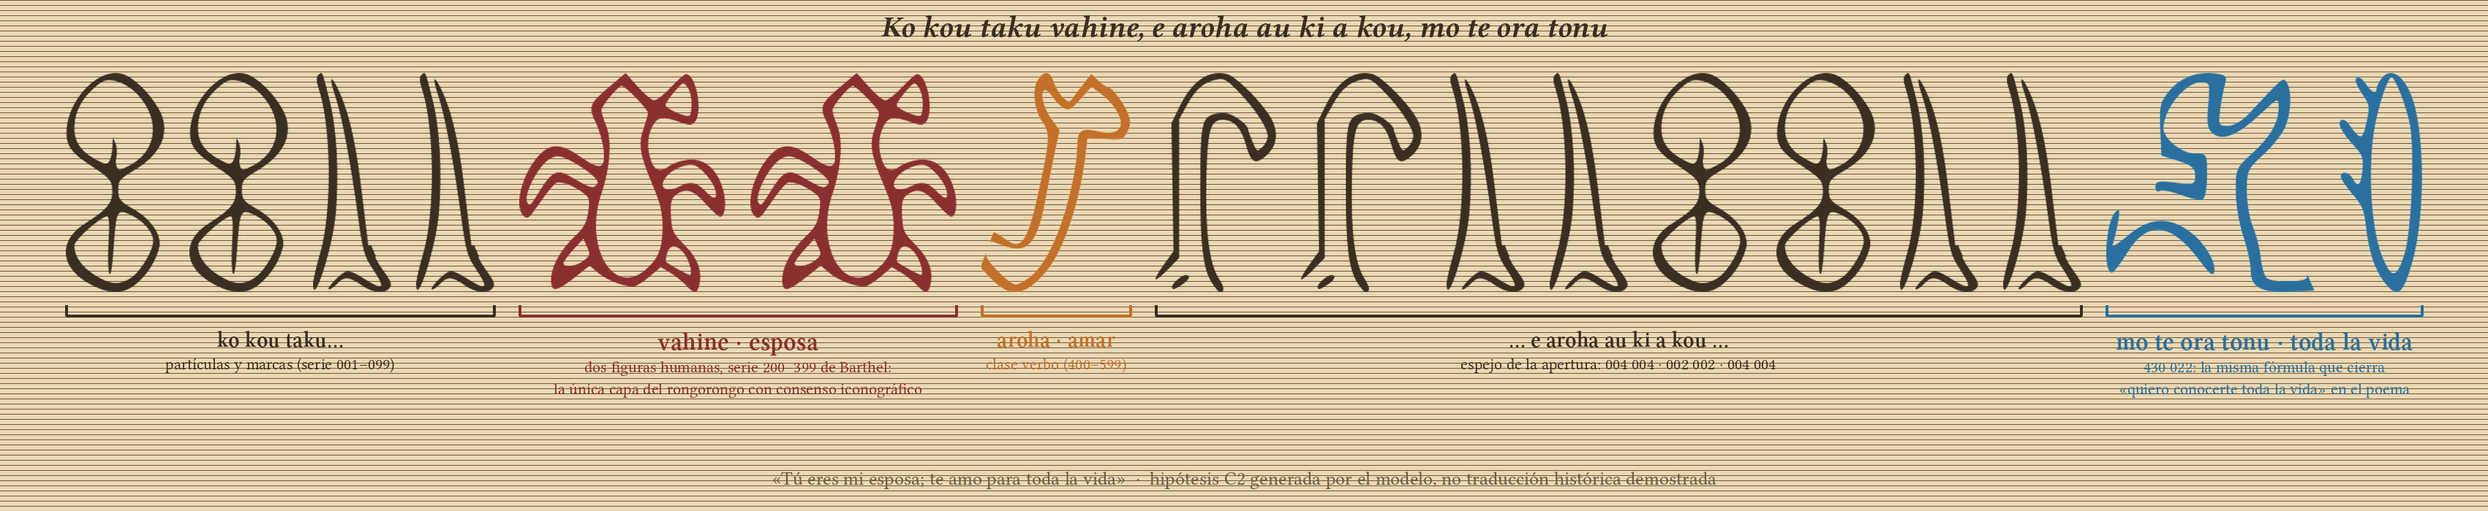
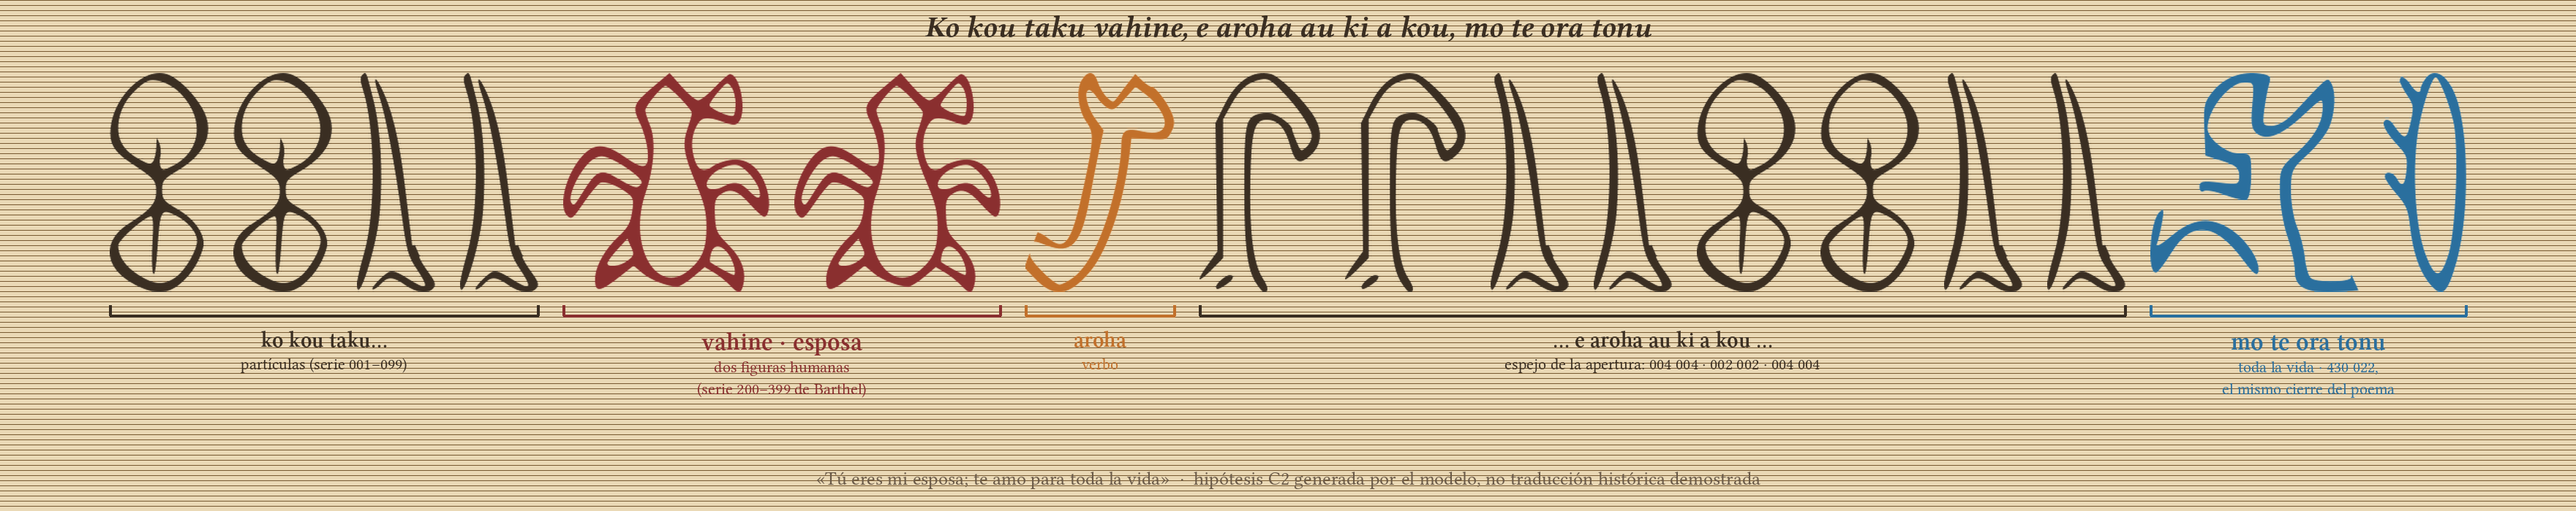
Add single-image LinkedIn post composition (proposal tablet, reading key, two tablets)

diff --git a/infografia/post_linkedin.html b/infografia/post_linkedin.html
@@ -1,0 +1,46 @@
+<!doctype html><html lang="es"><head><meta charset="utf-8"><style>
+:root{--ivory:#f6efe2;--ink:#2b2118;--ink2:#5a4a3a;--muted:#8c7b68;--burdeos:#8a2f2f;--line:#cdbfa6;--wood:#2a1b12;--wood2:#3a281b}
+*{box-sizing:border-box;margin:0;padding:0}
+html,body{width:1350px;background:var(--ivory);color:var(--ink);font-family:"Adwaita Sans","Montserrat",sans-serif}
+body{background:radial-gradient(900px 400px at 50% -60px, rgba(194,112,42,.13), transparent 70%),repeating-linear-gradient(180deg, rgba(120,90,50,.028) 0 2px, transparent 2px 9px),var(--ivory)}
+.page{padding:54px 64px 44px}
+.serif{font-family:"Libertinus Serif Display","Libertinus Serif",serif}
+h1{font-family:"Libertinus Serif Display",serif;font-size:86px;font-weight:600;text-align:center;line-height:1;letter-spacing:.01em}
+.sub{text-align:center;font-size:15px;letter-spacing:.28em;text-transform:uppercase;color:var(--muted);margin-top:14px}
+.hero{margin-top:30px;border-radius:18px;padding:34px 40px 28px;color:#f3e6cc;position:relative;
+  background:repeating-linear-gradient(94deg, rgba(255,255,255,.035) 0 3px, transparent 3px 11px),repeating-linear-gradient(88deg, rgba(0,0,0,.18) 0 1px, transparent 1px 23px),linear-gradient(180deg,var(--wood2),var(--wood) 55%,#1f140d);
+  box-shadow:0 24px 50px rgba(43,33,24,.28), inset 0 0 0 1px rgba(243,230,204,.18), inset 0 0 100px rgba(0,0,0,.35)}
+.hero .k{font-size:12.5px;letter-spacing:.3em;text-transform:uppercase;color:#d9c59a;text-align:center}
+.hero img{width:1222px;display:block;margin:18px auto 14px;filter:drop-shadow(0 2px 0 rgba(0,0,0,.5)) drop-shadow(0 0 16px rgba(217,197,154,.18))}
+.hero .rap{font-family:"Libertinus Serif Display",serif;font-style:italic;font-size:38px;text-align:center;color:#f7ecd6}
+.hero .es{font-family:"Libertinus Serif Display",serif;font-size:27px;text-align:center;color:#e6d5b5;margin-top:6px}
+.key{margin-top:30px;text-align:center}
+.key img{width:1240px;display:block;margin:0 auto}
+.key .t{font-size:13px;letter-spacing:.26em;text-transform:uppercase;color:var(--burdeos);font-weight:600;margin-bottom:10px}
+.two{display:grid;grid-template-columns:1fr 1fr;gap:34px;margin-top:30px}
+.card{border:1.5px solid var(--line);border-radius:14px;padding:16px 18px 14px;background:rgba(255,255,255,.42);text-align:center}
+.card img{width:100%;height:auto;display:block;margin:0 auto}
+.card .rap{font-family:"Libertinus Serif Display",serif;font-style:italic;font-size:24px;margin-top:10px}
+.card .es{font-size:16px;color:var(--ink2);margin-top:2px}
+.card .n{font-size:12.5px;color:var(--muted);margin-top:8px}
+.foot{margin-top:34px;display:flex;justify-content:space-between;align-items:flex-end;border-top:1px solid var(--line);padding-top:14px;font-size:12px;color:var(--muted);letter-spacing:.04em}
+.foot .sig{font-family:"Libertinus Serif Display",serif;font-style:italic;font-size:24px;color:var(--ink);white-space:nowrap;margin-left:30px}
+</style></head><body><div class="page">
+<h1>Dijo que sí.</h1>
+<div class="sub">Rapa Nui · una pregunta en 17 glifos</div>
+<div class="hero">
+ <div class="k">La tablilla de la petición</div>
+ <img src="hero_glyphs.png">
+ <div class="rap">Ko kou taku vahine, e aroha au ki a kou, mo te ora tonu</div>
+ <div class="es">«Tú eres mi esposa; te amo para toda la vida.»</div>
+</div>
+<div class="key"><div class="t">Clave de lectura</div><img src="clave_bare.png"></div>
+<div class="two">
+ <div class="card"><img src="../reports/figures/tablilla_motu_moana.png"><div class="rap">I te motu, i mua o te moana</div><div class="es">«En la isla, frente al mar»</div><div class="n">el mar cayó en la serie de los peces (700)</div></div>
+ <div class="card"><img src="../reports/figures/tablilla_mo_te_ora_tonu.png"><div class="rap">Mo te ora tonu</div><div class="es">«Para toda la vida»</div><div class="n">la única frase en la que los dos modelos coincidieron glifo por glifo</div></div>
+</div>
+<div class="foot">
+ <div>Glifos: trazados reales del corpus rongorongo (tablillas A–F, transcripción Barthel) · Secuencias: hipótesis C2 generadas por el modelo, no traducción histórica demostrada · github.com/satisfymath/spectral-submersion</div>
+ <div class="sig">María Ignacia: mo te ora tonu ❤</div>
+</div>
+</div></body></html>

diff --git a/infografia/build_key.py b/infografia/build_key.py
@@ -1,4 +1,5 @@
 """Reading key for the proposal line: glyphs coloured by what we can honestly say."""
+import os
 import sys
 sys.path.insert(0, "scripts")
 from render_tablet import load_glyph
@@ -10,19 +11,21 @@ color = {i: INK for i in range(len(SEQ))}
 for i in (4, 5): color[i] = BURDEOS      # 280 280 vahine
 color[6] = COBRE                          # 450 verb class
 for i in (15, 16): color[i] = AZUL        # 430 022 ora tonu formula
-H, GAP, M = 300, 34, 90
+H, GAP, M = 300, 34, 150
+SC = float(os.environ.get("KEY_SCALE", "1"))
 gl = [load_glyph(t, H, color[i]) for i, t in enumerate(SEQ)]
 W = sum(g.width for g in gl) + GAP * (len(gl) - 1) + 2 * M
-canvas = Image.new("RGBA", (W, H + 400), PARCH)
+canvas = Image.new("RGBA", (W, H + int(400 * SC)), (0, 0, 0, 0) if os.environ.get("KEY_BARE") == "1" else PARCH)
 # subtle grain
 d = ImageDraw.Draw(canvas)
-for y in range(0, canvas.height, 7):
+for y in (range(0, canvas.height, 7) if os.environ.get("KEY_BARE") != "1" else []):
     d.line([(0, y), (W, y)], fill=(120, 90, 50, 6))
 x, y0 = M, 100
 xs = []
 for g in gl:
     canvas.alpha_composite(g, (x, y0)); xs.append((x, x + g.width)); x += g.width + GAP
 def font(sz, bold=False, italic=False):
+    sz = int(sz * SC)
     cands = ["/usr/share/fonts/libertinus/LibertinusSerifDisplay-Regular.otf",
              "/usr/share/fonts/libertinus/LibertinusSerif-Regular.otf"]
     import glob
@@ -37,16 +40,24 @@ def bracket(i0, i1, col, lines, yb):
     yy = yb + 30
     for j, (txt, sz, it) in enumerate(lines):
         f = font(sz, italic=it, bold=(j == 0))
-        w = d.textlength(txt, font=f); d.text((cx - w / 2, yy), txt, fill=col, font=f); yy += sz + 8
+        w = d.textlength(txt, font=f); d.text((cx - w / 2, yy), txt, fill=col, font=f); yy += int(sz * SC) + 8
 yb = y0 + H + 18
-bracket(0, 3, INK, [("ko kou taku…", 30, True), ("partículas y marcas (serie 001–099)", 22, False)], yb)
-bracket(4, 5, BURDEOS, [("vahine · esposa", 34, True), ("dos figuras humanas, serie 200–399 de Barthel:", 22, False), ("la única capa del rongorongo con consenso iconográfico", 22, False)], yb)
-bracket(6, 6, COBRE, [("aroha · amar", 30, True), ("clase verbo (400–599)", 22, False)], yb)
+bracket(0, 3, INK, [("ko kou taku…", 30, True), ("partículas (serie 001–099)", 22, False)], yb)
+bracket(4, 5, BURDEOS, [("vahine · esposa", 34, True), ("dos figuras humanas", 22, False), ("(serie 200–399 de Barthel)", 22, False)], yb)
+bracket(6, 6, COBRE, [("aroha", 30, True), ("verbo", 22, False)], yb)
 bracket(7, 14, INK, [("… e aroha au ki a kou …", 30, True), ("espejo de la apertura: 004 004 · 002 002 · 004 004", 22, False)], yb)
-bracket(15, 16, AZUL, [("mo te ora tonu · toda la vida", 34, True), ("430 022: la misma fórmula que cierra", 22, False), ("«quiero conocerte toda la vida» en el poema", 22, False)], yb)
-ft = font(40, italic=True); t = "Ko kou taku vahine, e aroha au ki a kou, mo te ora tonu"
-d.text(((W - d.textlength(t, font=ft)) / 2, 14), t, fill=INK, font=ft)
-f2 = font(26); t2 = "«Tú eres mi esposa; te amo para toda la vida»  ·  hipótesis C2 generada por el modelo, no traducción histórica demostrada"
-d.text(((W - d.textlength(t2, font=f2)) / 2, canvas.height - 60), t2, fill="#6a5a48", font=f2)
-canvas.convert("RGB").save("reports/figures/clave_lectura_peticion.png", quality=95)
+bracket(15, 16, AZUL, [("mo te ora tonu", 34, True), ("toda la vida · 430 022,", 22, False), ("el mismo cierre del poema", 22, False)], yb)
+import os
+BARE = os.environ.get("KEY_BARE") == "1"
+if not BARE:
+    ft = font(40, italic=True); t = "Ko kou taku vahine, e aroha au ki a kou, mo te ora tonu"
+    d.text(((W - d.textlength(t, font=ft)) / 2, 14), t, fill=INK, font=ft)
+if not BARE:
+    f2 = font(26); t2 = "«Tú eres mi esposa; te amo para toda la vida»  ·  hipótesis C2 generada por el modelo, no traducción histórica demostrada"
+    d.text(((W - d.textlength(t2, font=f2)) / 2, canvas.height - 60), t2, fill="#6a5a48", font=f2)
+if BARE:
+    canvas = canvas.crop((0, 60, W, canvas.height - int(40 * SC)))
+    canvas.save("infografia/clave_bare.png")
+else:
+    canvas.convert("RGB").save("reports/figures/clave_lectura_peticion.png", quality=95)
 print("saved", canvas.size)
